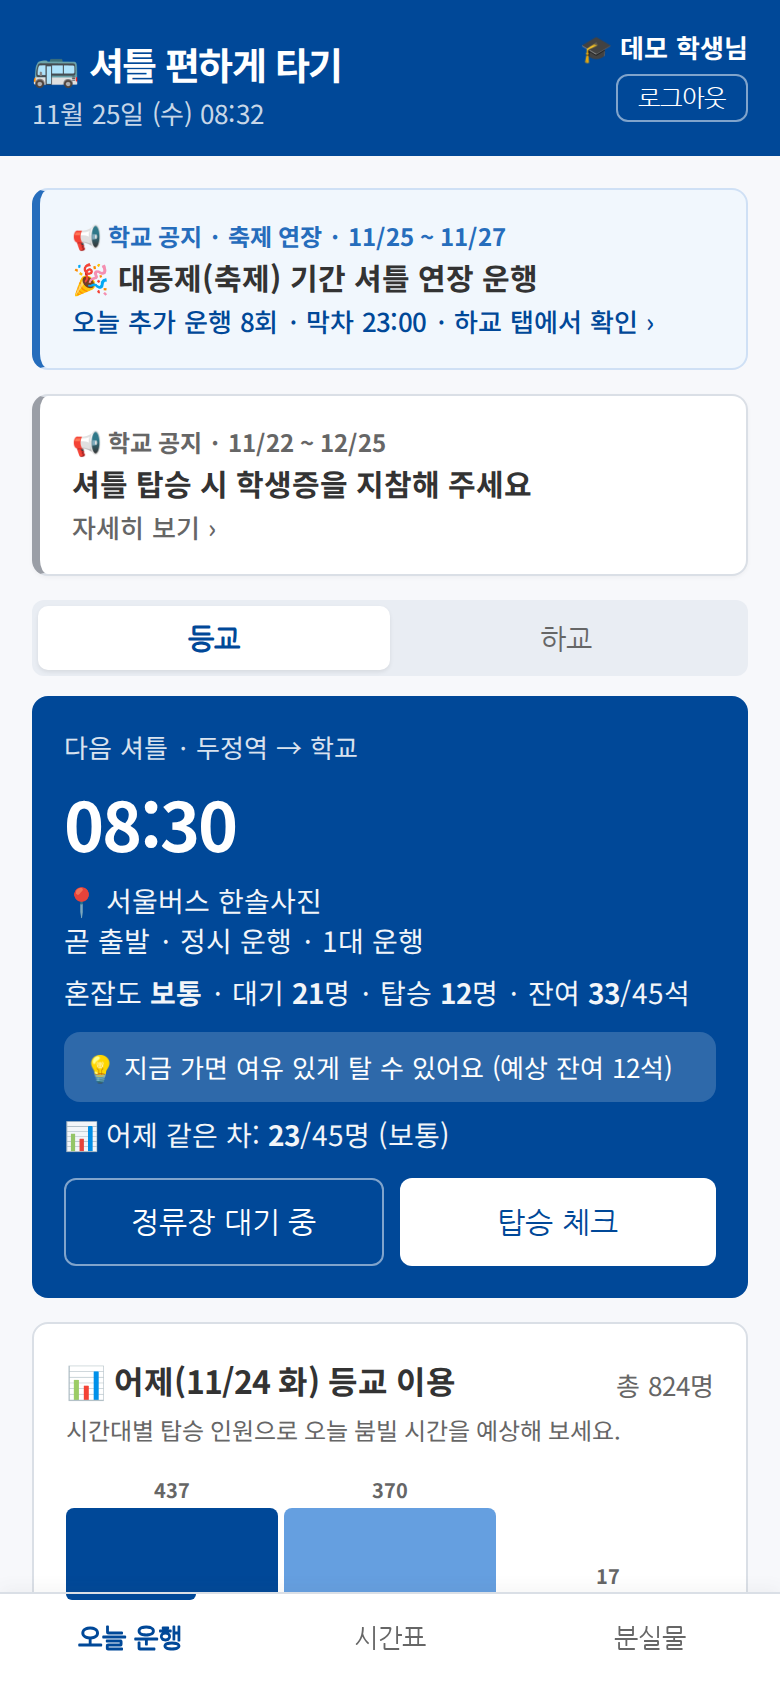
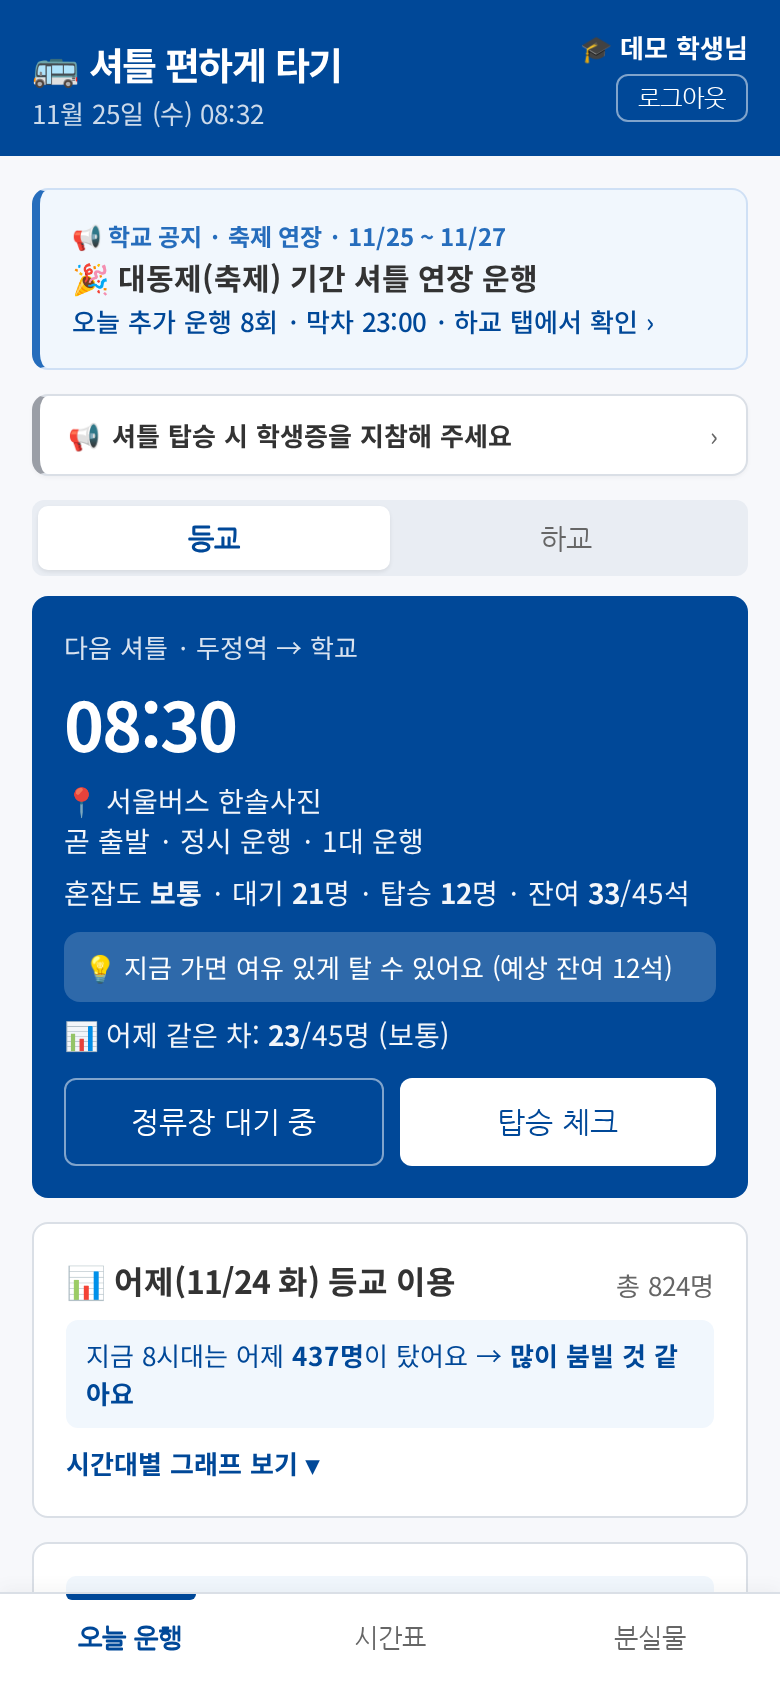
오늘 운행 화면 줄이기
- 회차 목록은 5개만 먼저 보여 주고 '더 보기'로 펼치기
- 지난 이용 현황은 예상 문구만 보이고 그래프는 접기
- 일반 공지는 한 줄 배너로
- 검색 칩은 한 줄 가로 스크롤

diff --git a/js/app.js b/js/app.js
@@ -143,6 +143,9 @@ let editingLost = null;   // 관리자가 수정 중인 분실물 글 id
 const openCmts = new Set();   // 댓글을 펼쳐 둔 분실물 글 id
 const cmtDraft = {};          // 작성 중인 댓글 (화면이 다시 그려져도 유지)
 let showPast = false;  // 지난 회차 펼치기
+let showAllRuns = false;  // 회차 목록 전체 보기 (기본은 앞의 5개만)
+let showChart = false;    // 지난 이용 그래프 펼치기
+const RUN_PREVIEW = 5;
 // 홈 검색 조건: mode = now(지금 이후) | hour(특정 시간대) | all(하루 전체)
 let q = { text: '', mode: 'now', hour: null };
 const textMatch = run => {
@@ -439,6 +442,9 @@ function renderHome() {
       : '<span class="muted">오늘 남은 운행이 없어요.</span>'}</div>`;
   }
 
+  const more = shown.length - RUN_PREVIEW;
+  const moreBtn = more > 0 ? `<button class="btn ghost" style="width:100%;margin-top:10px" data-moreruns="1">${showAllRuns ? '접기' : `회차 ${more}개 더 보기`}</button>` : '';
+  if (more > 0 && !showAllRuns) shown = shown.slice(0, RUN_PREVIEW);
   $('runList').innerHTML = noticeHtml + pastBtn + (shown.length ? shown.map(i => `
     <div class="run ${i.past ? 'past' : ''}">
       <div class="row between">
@@ -460,7 +466,7 @@ function renderHome() {
       </div>
       ${i.st.state === 'cancel' ? '' : `<div class="bar"><i style="width:${Math.min(i.ratio * 100, 100)}%;background:${i.level.color}"></i></div>
       <div class="seats">대기 ${i.waiting}명 · 탑승 ${i.count}명 · 잔여 ${i.left}석${i.mineWait ? ' · <b style="color:var(--primary)">내가 대기 중</b>' : ''}${yd(i)}</div>`}
-    </div>`).join('') : emptyHtml);
+    </div>`).join('') + moreBtn : emptyHtml);
 }
 
 // ---------- 지난 운행일 이용 현황 (학생도 보는 화면) ----------
@@ -515,11 +521,12 @@ function renderLastCard() {
   }
   $('lastCard').innerHTML = `
     <div class="row between"><h2>📊 ${L.label} ${dir} 이용</h2><span class="muted">총 ${total}명</span></div>
-    <div class="muted" style="font-size:12px">시간대별 탑승 인원으로 오늘 붐빌 시간을 예상해 보세요.</div>
-    <div class="chart">${hours.map(h => `<div class="col ${h === nowH ? 'now' : h === peak ? 'peak' : ''}">
+    <div class="say" style="margin-top:4px">${say}</div>
+    <button class="linkbtn" data-chart="1">${showChart ? '그래프 접기 ▴' : '시간대별 그래프 보기 ▾'}</button>
+    ${showChart ? `<div class="chart">${hours.map(h => `<div class="col ${h === nowH ? 'now' : h === peak ? 'peak' : ''}">
       <b>${byHour[h]}</b><i style="height:${byHour[h] / max * 100}%"></i><span>${h}시</span></div>`).join('')}</div>
     <div class="legend"><span><i style="background:var(--primary)"></i>${q.mode === 'hour' ? '검색한 시간' : '지금 시간'}</span><span><i style="background:#ee6c6e"></i>가장 붐빈 시간</span></div>
-    <div class="say">${say}</div>${toggle}`;
+    ${toggle}` : ''}`;
 }
 
 // 시간대 버튼: 지금 보고 있는 등교/하교에 실제로 운행이 있는 시간만 (회차 수 함께 표시)
@@ -546,7 +553,8 @@ function renderBanner() {
   $('noticeBanner').innerHTML = list.map(n => {
     const ex = n.extra || [];
     const last = ex.length ? ex.map(e => e.time).sort().pop() : '';
-    return `<button class="banner ${ex.length ? '' : 'plain'}" data-gonotice="1">
+    if (!ex.length) return `<button class="banner plain mini" data-gonotice="1">📢 <b>${esc(n.title)}</b><span>›</span></button>`;
+    return `<button class="banner" data-gonotice="1">
       <div class="k">📢 학교 공지${n.tag ? ' · ' + esc(n.tag) : ''} · ${period(n)}</div>
       <div class="ttl">${esc(n.title)}</div>
       <div class="s">${ex.length ? `오늘 추가 운행 ${ex.length}회 · 막차 ${last} · 하교 탭에서 확인 ›` : '자세히 보기 ›'}</div>
@@ -842,6 +850,9 @@ document.addEventListener('click', e => {
   if (b.dataset.sdir) { schedDir = b.dataset.sdir; renderAdmin(); }
   if (b.dataset.atab) { adminTab = b.dataset.atab; showAdminTab(); window.scrollTo(0, 0); }
   if (b.dataset.streset && isAdmin()) { delete day().status[b.dataset.streset]; save(); toast('정상 운행으로 되돌렸어요'); render(); }
+  if (b.dataset.dir || b.dataset.route || b.dataset.qmode || b.dataset.qhour) showAllRuns = false;
+  if (b.dataset.moreruns) { showAllRuns = !showAllRuns; renderHome(); if (!showAllRuns) $('runList').scrollIntoView({ block: 'start' }); }
+  if (b.dataset.chart) { showChart = !showChart; renderHome(); }
   if (b.dataset.dir) { dir = b.dataset.dir; route = '전체'; if (q.mode === 'hour') q.mode = 'now'; renderHome(); }
   if (b.dataset.route) { route = b.dataset.route; renderHome(); }
   if (b.dataset.weekdir) { weekDir = b.dataset.weekdir; renderWeek(); }
@@ -1040,13 +1051,13 @@ $('lfSave').onclick = async () => {
   lostMode = '전체'; renderLost(); toast(msg);
 };
 // ---------- 홈 검색 ----------
-$('qText').oninput = e => { q.text = e.target.value; renderHome(); };
-$('qReset').onclick = () => { q = { text: '', mode: 'now', hour: null }; route = '전체'; showPast = false; $('qText').value = ''; renderHome(); };
+$('qText').oninput = e => { q.text = e.target.value; showAllRuns = false; renderHome(); };
+$('qReset').onclick = () => { q = { text: '', mode: 'now', hour: null }; route = '전체'; showPast = false; showAllRuns = false; $('qText').value = ''; renderHome(); };
 
 // ---------- 로그인 / 회원가입 ----------
 function login(id) {
   S.session = id; save();
-  dir = '등교'; route = '전체'; showPast = false;
+  dir = '등교'; route = '전체'; showPast = false; showAllRuns = false; showChart = false;
   openCmts.clear(); for (const k in cmtDraft) delete cmtDraft[k];
   adminTab = 'run'; showAdminTab();
   goTab(isAdmin() ? 'admin' : 'home');

diff --git a/css/style.css b/css/style.css
@@ -135,7 +135,8 @@ body.admin nav [data-tab="home"], body.admin nav [data-tab="week"] { display: no
 .atabs button { font-size: 13px; padding: 9px 0; }
 .search input[type=search] { font-size: 15px; padding: 11px 12px; background: #f7f8fa; border-color: transparent; }
 .search .slabel { font-size: 12px; color: var(--sub); font-weight: 600; margin: 12px 0 6px; }
-.search .chips { margin-bottom: 8px; flex-wrap: wrap; overflow: visible; }
+.search .chips { margin-bottom: 8px; flex-wrap: nowrap; overflow-x: auto; scrollbar-width: none; }
+.search .chips::-webkit-scrollbar { display: none; }
 .chip.zero:not(.on) { color: var(--gray); border-style: dashed; }
 .chip small { opacity: .7; margin-left: 2px; }
 .qsum { margin: 0 2px 8px; font-size: 13px; color: var(--sub); }
@@ -238,3 +239,7 @@ body.nl-badge .toast { bottom: 140px; }
 .fold summary::-webkit-details-marker { display: none; }
 .fold summary::after { content: " ▾"; }
 .fold[open] summary::after { content: " ▴"; }
+.banner.mini { display: flex; align-items: center; gap: 6px; padding: 10px 14px; font-size: 13px; }
+.banner.mini b { flex: 1; font-weight: 600; overflow: hidden; text-overflow: ellipsis; white-space: nowrap; }
+.banner.mini span { color: var(--sub); }
+.linkbtn { border: 0; background: none; color: var(--primary); font-size: 13px; font-weight: 600; padding: 8px 0 0; cursor: pointer; font-family: inherit; }
